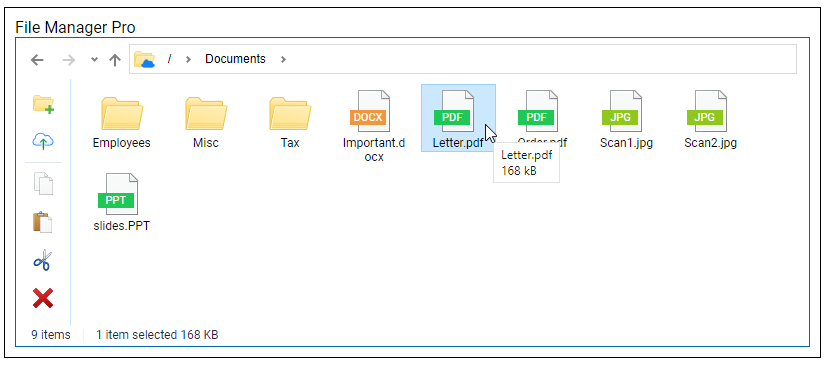
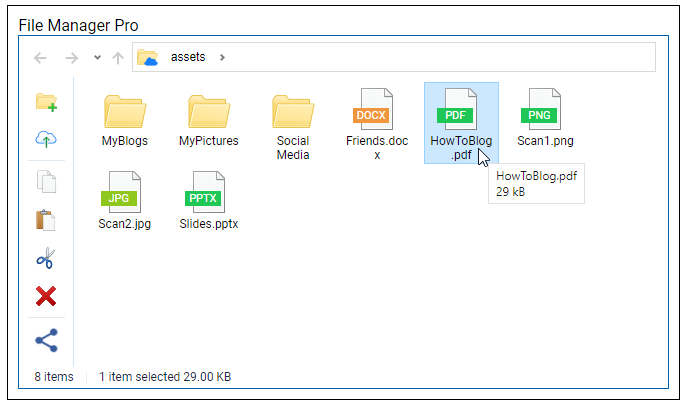
New event handler

Changed region(s): [[0.0, 0.0, 1.0, 1.0]]

diff --git a/EndlessFileManager/README.md b/EndlessFileManager/README.md
@@ -10,7 +10,7 @@ This is the documentation for the UI components ***Endless File Manager*** and *
 </center>
 
 ## Use Cases
-Upload, view and organize files on the Backendless file system.
+Upload, download, view and organize files on the Backendless file system.
 
 
 ![Impression](./assets/Impression.png)
@@ -36,19 +36,20 @@ Upload, view and organize files on the Backendless file system.
 - rename files and folders (pro version only)
 - move/copy/paste files and folders (also via drag-and-drop) (pro-version only)
 - delete files and folders (pro-version only)
+- share links to files (pro version only)
 
 <br>
 
 ## File system paths
-*File Manager* provides a "window" to the Backendless file system content at a certain path in the file system. When *File Manager* is initialized, it shows the file system content at the ``Root Path`` which is composed of two components:
+*File Manager* provides a "window" to the Backendless file system at a certain file sytem path. When *File Manager* is initialized, it shows the file system content at ``<Root Path>``, which is composed of two components:
 ```
-Root Path = System Root Path + Visible Root Path
+<Root Path> = <System Root Path> + <Visible Root Path>
 ```
-A user cannot go upwards beyond the ``Root Path``. So, ``Root Path`` should point to a folder which has been created for a user to hold her files and subsequent folders. ``System Root Path`` is not visible to users, whereas ``Visible Root Path`` is displayed as the root of the navigation hierarchy in File Manger.
+A user cannot go upwards beyond ``<Root Path>``. So, it should point to a folder which has been created for a user to hold her files and subsequent folders. ``<System Root Path>`` is not visible to users, whereas ``<Visible Root Path>`` is displayed as the root of the navigation hierarchy in *File Manger*. For example, if ``<Visible Root Path> = '/Documents'`` then the initial navigation bar looks like:
 
 ![Navigation](./assets/Navigation.png)
 
-``Root Path`` must be a valid path in the Backendless file system hierarchy. Assume you have created the folder ``/web/users`` to contain files of your app users. Each user might get its own folder created. So all files of user "Caren" will be within ``/web/users/Caren``. Assume you want offer the *File Manager* to Caren to upload own files into the subfolder ``Documents``. In this case you might choose ``System Root Path = /web/users/Caren`` and ``Visible Root Path = /Documents``. Make sure that the subfolder ``Documents`` already exists before *File Manager* gets initialized. Note, that the default value of ``Visible Root Path`` is ``/``.
+Assume you have created the folder ``/web/users`` to contain files of your app users. Each user might get its own folder created upfront. So all files of user "Caren" will be within ``/web/users/Caren``. Assume you want offer *File Manager* to Caren to upload own files into the subfolder ``Documents``. In this case you might choose ``<System Root Path> = '/web/users/Caren'`` and ``<Visible Root Path> = '/Documents'``. Make sure that the subfolder ``Documents`` already exists before *File Manager* gets initialized. Note, that the default value of ``<Visible Root Path>`` is ``'/'``. To choose ``<System Root Path>`` dynamically depending on the logged-in user, user data binding for the UI component property ``System Root Path``.
 
 <br>
 
@@ -140,6 +141,24 @@ The handler has a return parameter.
 - If ``false`` is returned, the system will perform no action to open the file. This is useful if you want to implement your own "open file" action.
 - All other return values are interpreted as a changed URL used to launch  the ``window.open()`` command. This is useful, for instance, if you want to replace the domain name in ``Files.url`` to match the domain where your app is hosted.
 
+### Before Share
+(**Pro-version only**) 
+This handler is called before the share operation for a selected file is executed. The context block ``File`` contains attributes of the file to be opened. Sample content:
+```
+{
+  name: "profileImage.jpg",
+  path: "web/users/Caren/profileImage.jpg",
+  size: 4096,
+  url: "https://backendlessappcontent.com/6E10590/89CD/files/web/users/Caren/profileImage.jpg",
+  createdOn: 1665673676313,
+  updatedOn: 1665673676499
+}
+```
+The handler has a return parameter.
+- If nothing is returned (or if the handler is not implement at all), the system launches the command for sharing data. Depending on the device, a dialog is shown which lets you choose how to share the link of the selected file. If your device does not support a standard share dialog, then the link is copied to the clipboard.
+- If ``false`` is returned, the system will perform no action to share the link. This is useful if you want to implement your own "share link" action.
+- All other return values are interpreted as a changed URL to be passed to the share command. This is useful, for instance, if you want to replace the domain name in ``Files.url`` to match the domain where your app is hosted.
+
 <br>
 
 ## Error handling
@@ -149,16 +168,16 @@ See section [Error Handler](#error-handler).
 
 ## Protecting files
 
-> **NOTE**: **The only secure way to protect files against unwanted access or operations is the Backendless permission system for files. *File Manager* cannot provide any secure mechanism to protect files against unwanted access.**
+> **NOTE**: **The only secure way to protect files against unwanted access or operations is the Backendless permission system for files. *File Manager* and *File Manager Pro* cannot provide any secure mechanism to protect files against unwanted access.**
 
-*File Manager* is a tools which runs in your Browser client. An experienced programmer can inspect all code in the browser and might change it. Therefore, as any other client side tool, *File Manager* cannot provide secure mechanisms for protecting files against unwanted access.
+*File Manager* and *File Manafr Pro* are tools which run in your Browser client. An experienced programmer can inspect all code in the browser and might change it. Therefore, as any other client side tool, *File Manager* and *File Manager Pro* cannot provide secure mechanisms for protecting files against unwanted access.
 
 The Backendless platform provides means to grant permissions to restrict file access and file operations. You should consult the documentation on [Backendless Files Security](https://backendless.com/docs/rest/files_files_security.html). 
 
 <br>
 
 ## Implementing quotas
-With such a flexible and easy to use tool like *Endless File Manger*, your users can easily upload files to the  Backendless file system. As the costs of storing data is on your side, you will probably want to introduce quotas for your users, to prevent them from occupying too much file system space. For the same reasons as discussed in section [Protecting files](#protecting-files), *File Manager*, as a client side tool, cannot implement quotas in a reliable way. Such a mechanism must be implemented as a server side logic, which users cannot modify. The Backendless platform provides the means of ``Event Handlers`` to solve this requirement. Specifically, you can implement a ``Before Upload`` handler from the "Files" category:
+With such a flexible and easy to use tool like this file manager, your users can easily upload files to the  Backendless file system. As the costs of storing data is on your side, you will probably want to introduce quotas for your users, to prevent them from occupying too much file system space. For the same reasons as discussed in section [Protecting files](#protecting-files), *File Manager* and *File Manager Pro*, as client side tools, cannot implement quotas in a reliable way. Such a mechanism must be implemented as a server side logic, which users cannot modify. The Backendless platform provides the means of backend ``Event Handlers`` to solve this requirement. Specifically, you can implement a ``Before Upload`` handler from the "Files" category on the Backendless backend:
 
 ![Quota check implementation](./assets/FileEventHandler.png)
 
@@ -175,6 +194,6 @@ A client side solution how to limit the upload size of an individual file has be
 <br>
 
 ## Reused libraries and components
-This product includes the following external code libraries/components, which are not owned by the authors of ***Endless File Manager*** and **Endless Filemanger Pro**:
+This product includes the following external code libraries/components, which are not owned by the authors of ***Endless File Manager*** and ***Endless Filemanger Pro***:
 
 - [js-fileexplorer](https://github.com/cubiclesoft/js-fileexplorer). Licensed under the MIT License.
